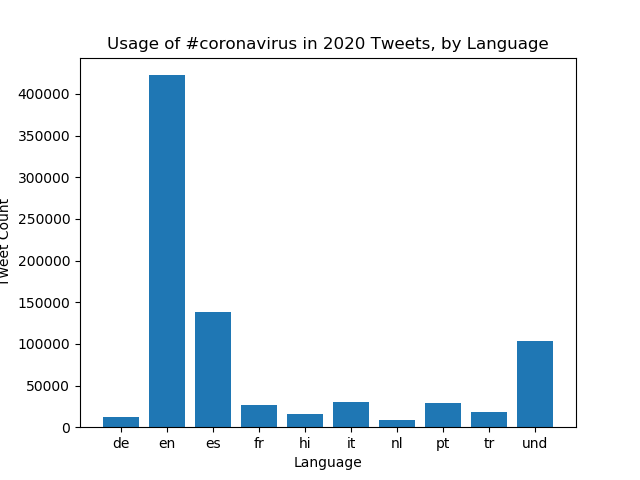
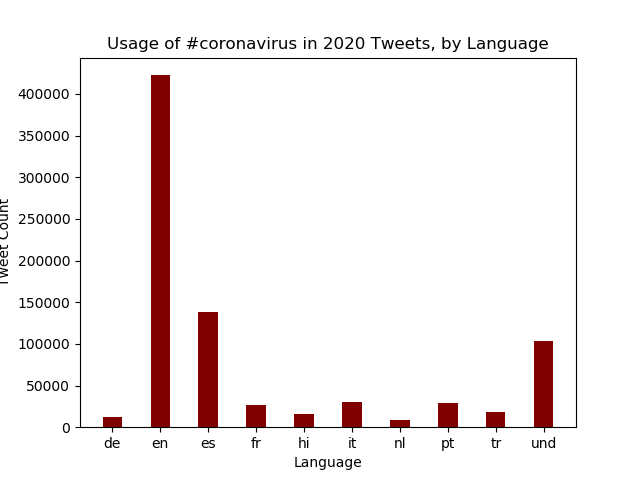
new commit

Changed region(s): [[0.1562, 0.1562, 0.875, 0.9375]]

diff --git a/src/visualize.py b/src/visualize.py
@@ -24,19 +24,18 @@ if args.percent:
     for k in counts[args.key]:
         counts[args.key][k] /= counts['_all'][k]
 
-# top ten keys
+# print the count values
 items = sorted(counts[args.key].items(), key=lambda item: (item[1],item[0]), reverse=True)
-top_ten_items = items[0:10]
+for k,v in items:
+    print(k,':',v)
 
-keys = []
-values = []
-for key, value in top_ten_items:
-    keys.append(key)
-    values.append(value)
+# create sorted dictionary before plotting
+lists = sorted(sorted(counts[args.key].items(), key=lambda item: (item[1],item[0]), reverse=True)[:10], key=lambda kv: kv[1])
+key, value = zip(*lists)
 
-keys.reverse()
-values.reverse()
-print(keys, values)
+# create bar graph
+plt.bar(key, value, color = 'maroon', width = 0.4)
+
 
 if args.input_path == "reduced.lang":
     plt.title(f'Usage of {args.key} in 2020 Tweets, by Language')
@@ -49,5 +48,4 @@ else: #reduced.country
     category = "country"
 
 plt.ylabel('Tweet Count')
-plt.bar(keys, values)
 plt.savefig(f'plots/{category}_{args.key}_barchart.png')
